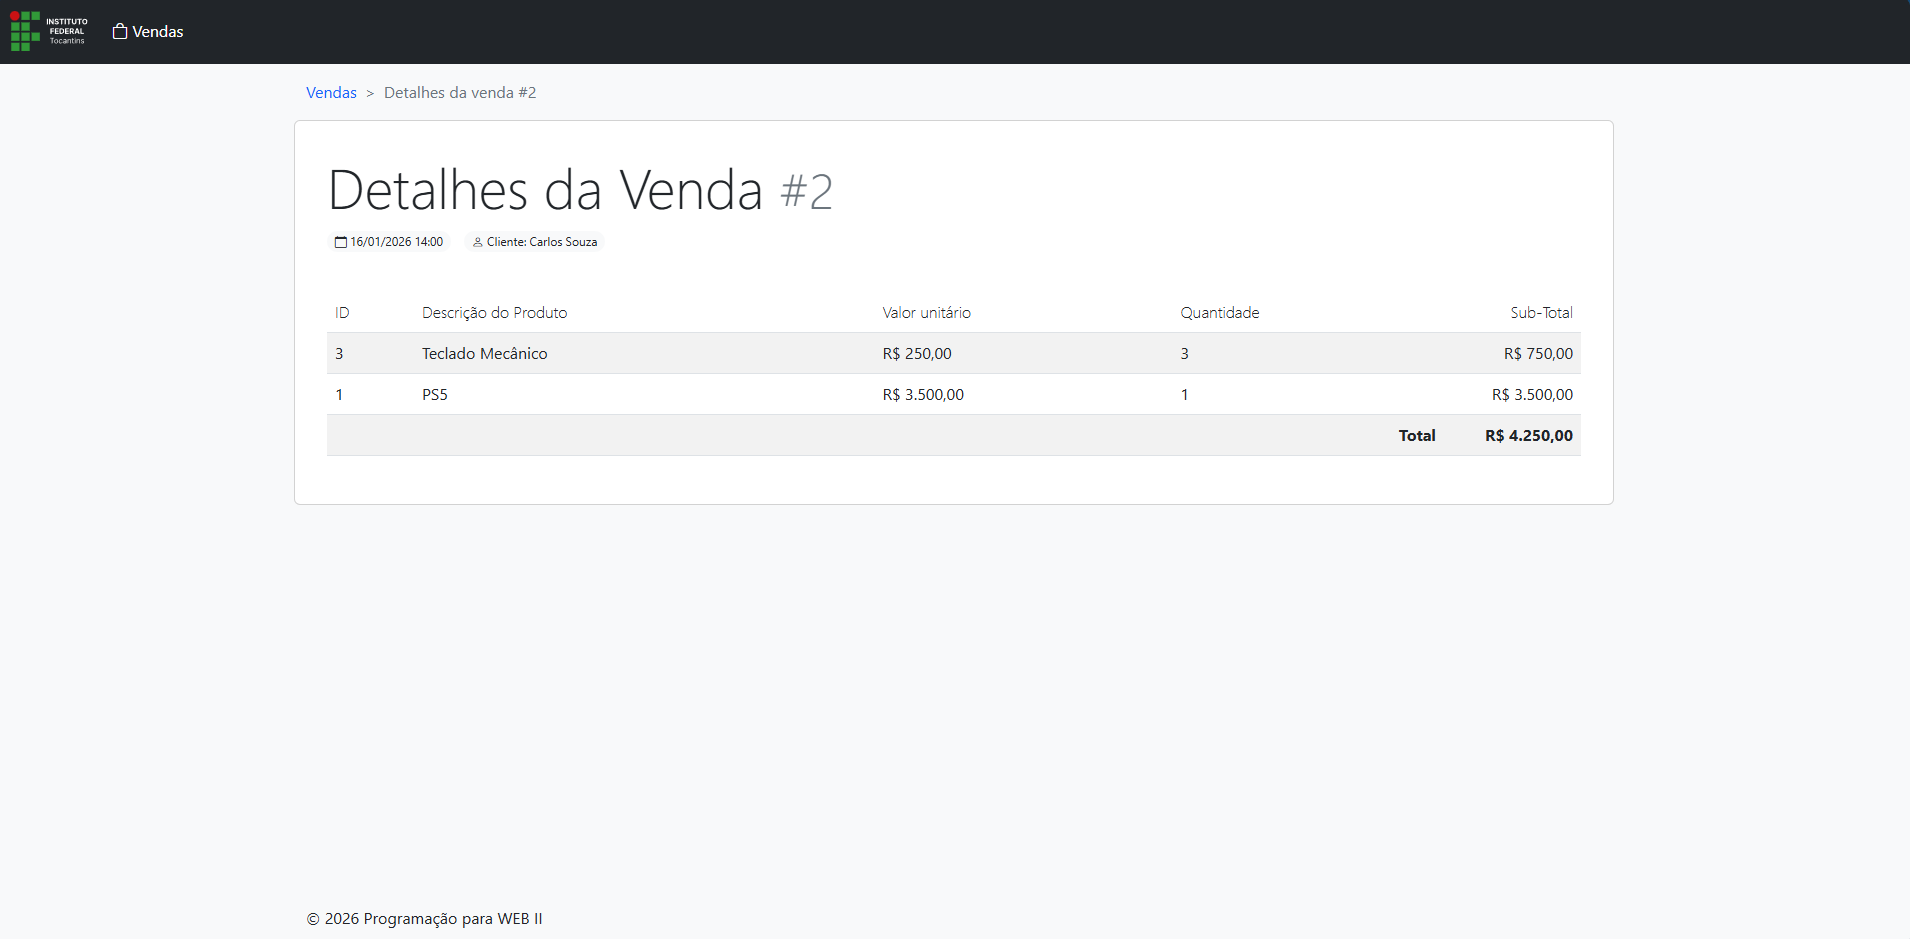
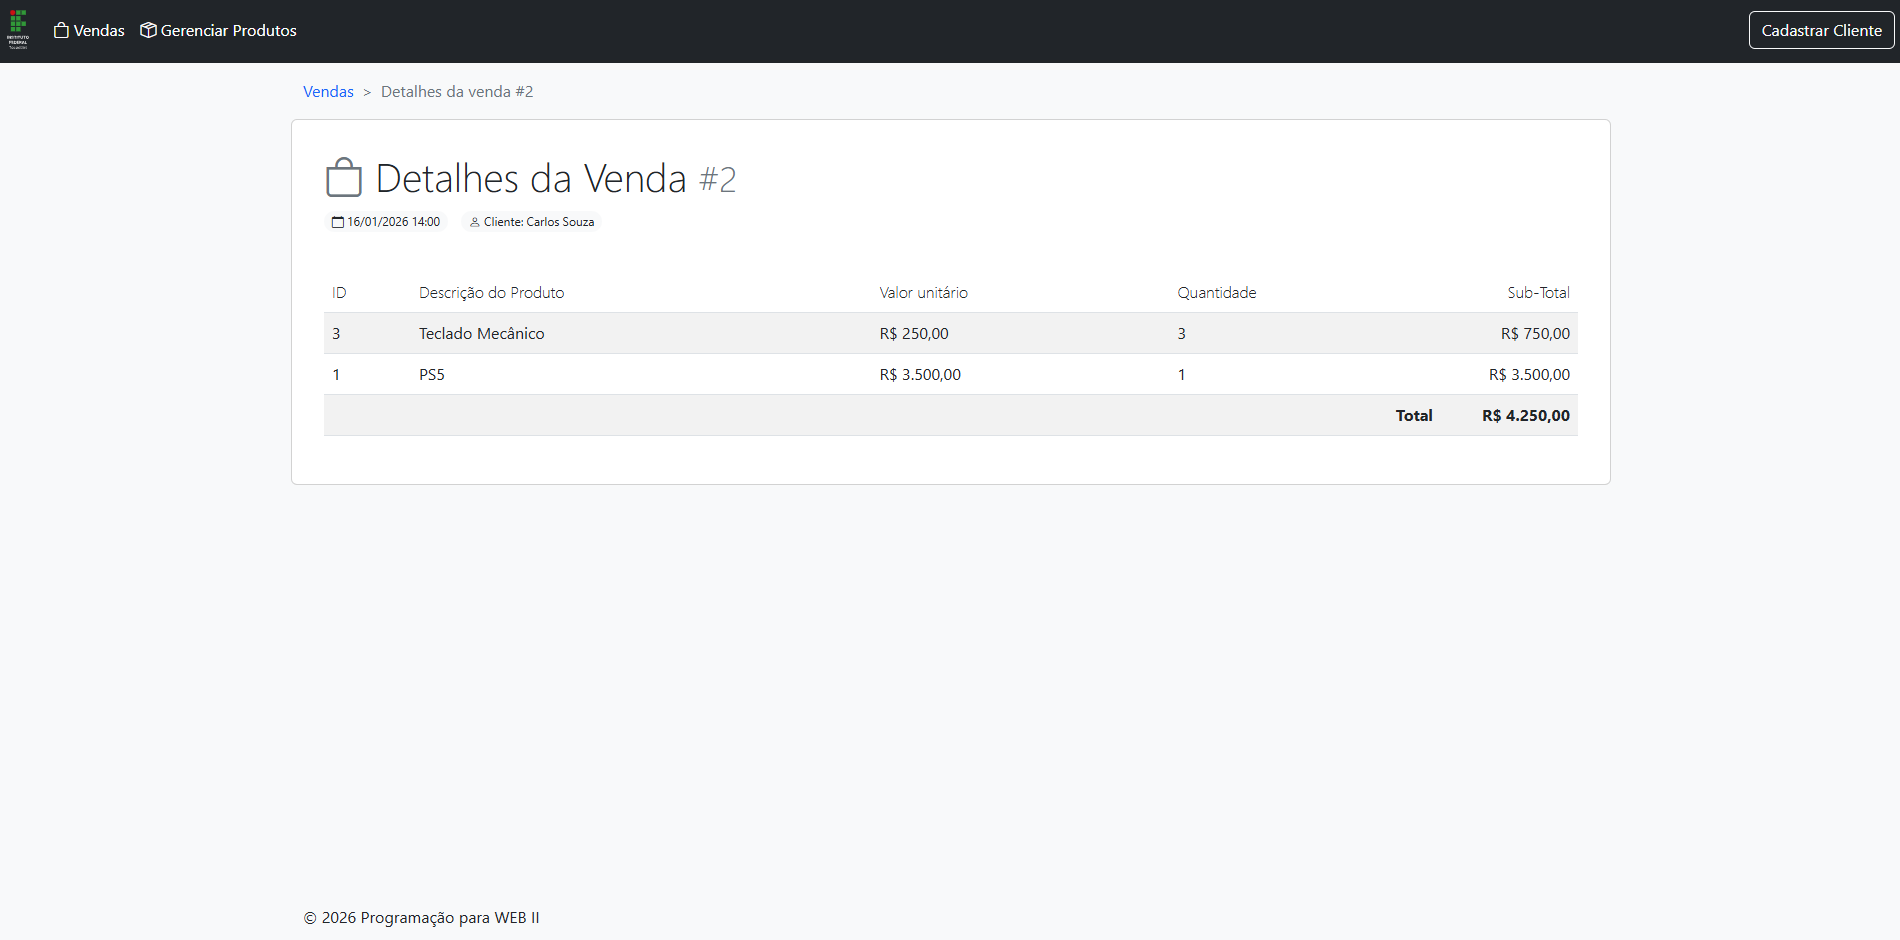
docs: README atualizado and add link para cadastro de cliente na navbar

diff --git a/src/main/resources/templates/fragments/header.html b/src/main/resources/templates/fragments/header.html
@@ -2,7 +2,7 @@
     <nav class="navbar navbar-expand-lg navbar-dark bg-dark">
         <div class="container-fluid">
             <a class="navbar-brand" th:href="@{/vendas}">
-                <img th:src="@{/images/logo-2.svg}" alt="IFTO" height="40">
+                <img th:src="@{/images/logo.svg}" alt="IFTO" height="40">
             </a>
             <button class="navbar-toggler" type="button" data-bs-toggle="collapse"
                     data-bs-target="#navbarSupportedContent" aria-controls="navbarSupportedContent" aria-expanded="false" aria-label="Toggle navigation">
@@ -23,6 +23,8 @@
                         </a>
                     </li>
                 </ul>
+
+                <a class="btn btn-outline-light" th:href="@{/clientes/cadastro}">Cadastrar Cliente</a>
             </div>
         </div>
     </nav>

diff --git a/README.md b/README.md
@@ -28,6 +28,33 @@ Este projeto foi construído de forma incremental durante a disciplina, evoluind
 
 ![Detalhes da Venda](docs/images/detalhe-venda.png)
 
+## 📦 Listagem de Produtos
+> Visualização completa dos produtos, descrição e valor.
+
+![Detalhes da Venda](docs/images/gerenciar-produtos.png)
+
+## 📦 Cadastro de Produto
+> Cadastro de produto com descrição e valor.
+
+![Detalhes da Venda](docs/images/cadastrar-produto.png)
+
+## 📦 Edição de Produto
+> Edição de dados de produto existente.
+
+![Detalhes da Venda](docs/images/editar-produto.png)
+
+## 👤 Cadastro de Cliente
+
+### 🧑🦱 Cadastro de Pessoa Física
+> Cadastro de pessoa física com cpf, nome, email e telefone.
+
+![Detalhes da Venda](docs/images/cadastrar-cliente-pf.png)
+
+### 🧑🦱 Cadastro de Pessoa Jurídica
+> Cadastro de pessoa jurídica com cnpj, razão social, email e telefone.
+
+![Detalhes da Venda](docs/images/cadastrar-cliente-pj.png)
+
 ---
 
 # ✨ Funcionalidades Implementadas
@@ -39,12 +66,22 @@ Este projeto foi construído de forma incremental durante a disciplina, evoluind
 - ✅ Exibição de itens da venda
 - ✅ Cálculo de total geral
 
+## 📦 Produtos
+- ✅ Listagem de produtos
+- ✅ Cadastro de produto
+- ✅ Edição de produto
+- ✅ Remoção de produto (com proteção contra deleção de produtos vinculados a vendas)
+
 ## 👤 Clientes
-- ✅ Herança entre entidades
+- ✅ Herança entre entidades (Pessoa Física e Pessoa Jurídica)
+- ✅ Cadastro de Pessoa Física (nome, CPF, e-mail, telefone)
+- ✅ Cadastro de Pessoa Jurídica (razão social, CNPJ, e-mail, telefone)
 
 ## 🎨 Interface
 - ✅ Layout responsivo com Bootstrap 5
 - ✅ Reutilização de templates com Thymeleaf Fragments
+- ✅ Breadcrumb dinâmico parametrizado
+- ✅ Fragmento de alerta reutilizável
 - ✅ Navegação organizada
 
 ## 🗄 Banco de Dados
@@ -56,17 +93,17 @@ Este projeto foi construído de forma incremental durante a disciplina, evoluind
 
 # 🧠 Tecnologias Utilizadas
 
-| Tecnologia   | Função |
-|--------------|--------|
-| Java 25      | Linguagem principal |
-| Spring Boot 4.0.3 | Inicialização e configuração |
-| Spring MVC   | Controllers e rotas |
-| Thymeleaf    | Templates HTML dinâmicos |
-| Bootstrap 5.2.3  | Estilização responsiva |
-| JPA          | API de persistência |
-| Hibernate    | Implementação ORM da JPA |
-| H2 Database  | Banco em memória/arquivo |
-| Maven        | Gerenciamento de dependências |
+| Tecnologia        | Função                          |
+|-------------------|---------------------------------|
+| Java 25           | Linguagem principal             |
+| Spring Boot 4.0.3 | Inicialização e configuração    |
+| Spring MVC        | Controllers e rotas             |
+| Thymeleaf         | Templates HTML dinâmicos        |
+| Bootstrap 5.2.3   | Estilização responsiva          |
+| JPA               | API de persistência             |
+| Hibernate         | Implementação ORM da JPA        |
+| H2 Database       | Banco em memória/arquivo        |
+| Maven             | Gerenciamento de dependências   |
 
 ---
 
@@ -77,10 +114,11 @@ O sistema segue o padrão **MVC (Model-View-Controller)**:
 ```text
 src/main/java/
 ├── controller   -> Requisições HTTP
-├── model        -> Entidades de domínio
+├── model        -> Entidades de domínio e records utilitários
 ├── repository   -> Persistência com EntityManager
 ├── config       -> Configurações Spring MVC
-````
+└── util         -> Classes utilitárias (ex: BreadcrumbUtils)
+```
 
 ---
 
@@ -135,14 +173,26 @@ Utilizando:
 Uso de fragments parametrizados:
 
 ```html
-<html th:replace="~{fragments/layout :: layout(~{::head}, ~{::nav}, ~{::main})}">
+<html th:replace="~{fragments/layout :: layout(~{::head}, ~{::main}, ~{::script})}">
 ```
 
 Benefícios:
 
 * Reaproveitamento de estrutura
 * Padronização visual
+* Suporte a scripts por página
 * Manutenção simplificada
+
+### Breadcrumb Dinâmico
+
+O breadcrumb é gerado dinamicamente via `BreadcrumbItem` record e renderizado por um fragment parametrizado:
+
+```java
+model.addAttribute("breadcrumbItems", breadcrumb(
+    new BreadcrumbItem("Produtos", "/produtos"),
+    new BreadcrumbItem("Editar Produto", null)
+));
+```
 
 ---
 
@@ -213,21 +263,18 @@ A proposta da disciplina prioriza o entendimento progressivo das tecnologias:
 
 # 📌 Próximas Melhorias
 
-### 📦 Produtos
-* 📦 Cadastro
-* 📦 Edição
-* 📦 Exclusão
-* 📦 Listagem
-
-### 👤 Clientes
-* 🧑🦱 Cadastro de Pessoa Física
-* 👨💼 Cadastro de Pessoa Jurídica
-
-### 🔍 Filtros de listagens e Buscas
+### 🔍 Filtros e Buscas
 * 🔍 Filtro de vendas por data
 * 🔍 Filtro de vendas por cliente
-* 🔍 Filtro de clientes por nome
+* 🔍 Listagem de clientes com filtro por nome
 * 🔍 Busca de produtos por descrição
+
+### 👤 Clientes
+* 📋 Listagem de clientes
+
+### 🎨 Interface
+* 🎨 Migração de CSS para SCSS
+* 🎨 Centralização de rotas em classe global
 
 ### 🔐 Sistema
 * 🔐 Autenticação de usuários
